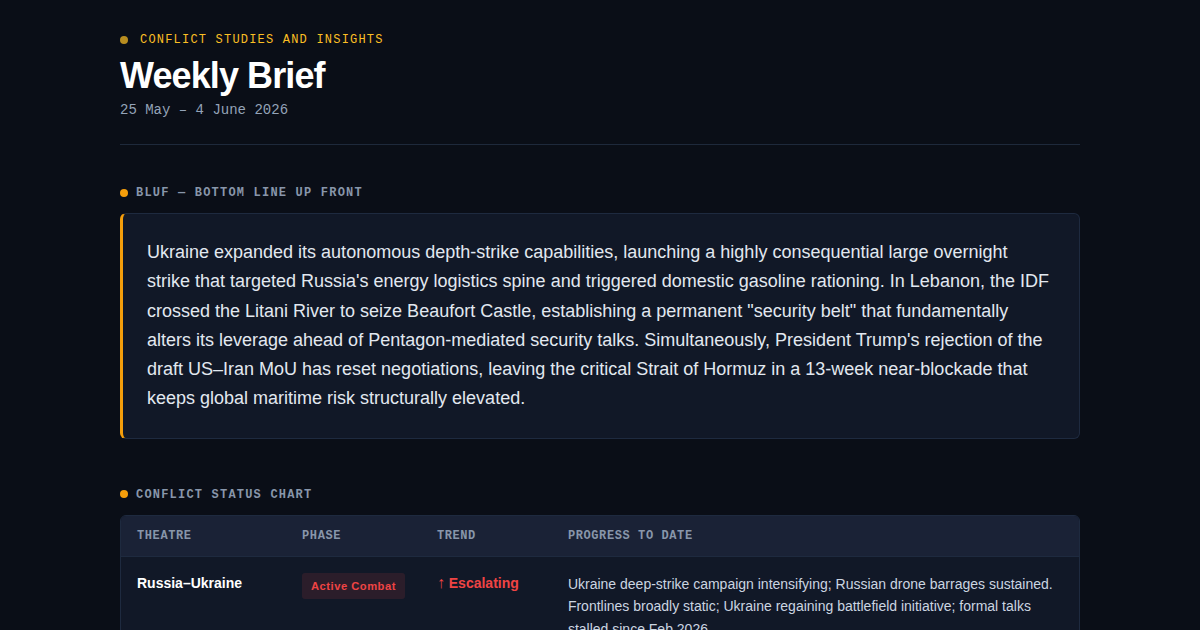
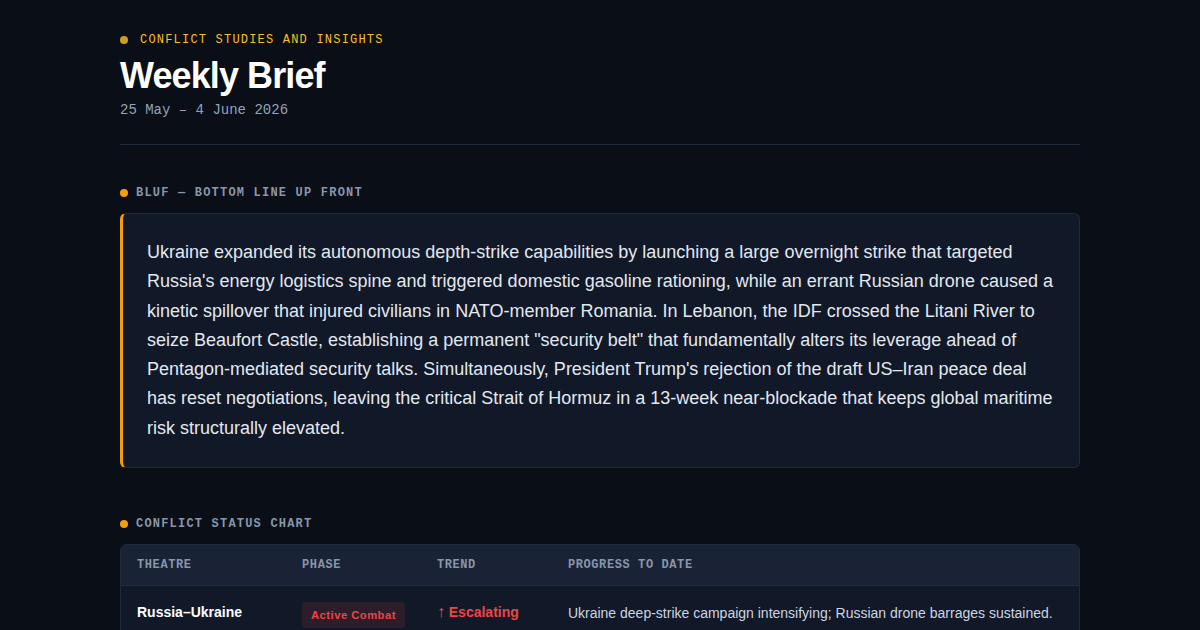
Add files via upload

diff --git a/25-may-4-jun-2026.html b/25-may-4-jun-2026.html
@@ -308,7 +308,7 @@
     <h2 class="font-mono text-xs tracking-widest uppercase mb-3" style="color:#8896aa;"><span class="sec-dot" style="background:#f59e0b"></span>BLUF — Bottom Line Up Front</h2>
         <div class="rounded-md p-5 sm-p-6" style="background:#111827; border:1px solid #1e2a3f; border-left:3px solid #f59e0b;">
       <p class="text-base sm-text-lg leading-relaxed" style="color:#e2e8f0;">
-        Ukraine expanded its autonomous depth-strike capabilities, launching a highly consequential large overnight strike that targeted Russia's energy logistics spine and triggered domestic gasoline rationing. In Lebanon, the IDF crossed the Litani River to seize Beaufort Castle, establishing a permanent "security belt" that fundamentally alters its leverage ahead of Pentagon-mediated security talks. Simultaneously, President Trump's rejection of the draft US–Iran MoU has reset negotiations, leaving the critical Strait of Hormuz in a 13-week near-blockade that keeps global maritime risk structurally elevated.
+        Ukraine expanded its autonomous depth-strike capabilities by launching a large overnight strike that targeted Russia's energy logistics spine and triggered domestic gasoline rationing, while an errant Russian drone caused a kinetic spillover that injured civilians in NATO-member Romania. In Lebanon, the IDF crossed the Litani River to seize Beaufort Castle, establishing a permanent "security belt" that fundamentally alters its leverage ahead of Pentagon-mediated security talks. Simultaneously, President Trump's rejection of the draft US–Iran peace deal has reset negotiations, leaving the critical Strait of Hormuz in a 13-week near-blockade that keeps global maritime risk structurally elevated.
       </p>
     </div>
   </section>
@@ -387,6 +387,21 @@
         <div class="font-mono" style="font-size:11px; letter-spacing:1.5px; text-transform:uppercase; color:#f59e0b; margin-bottom:6px; font-weight:700;">Implication <span style="opacity:0.7;">[Fires &amp; Strikes · Sustainment]</span></div>
         <ul style="color:#e2e8f0; line-height:1.65; padding-left:1.1rem; list-style:disc; margin:0;"><li style="margin-bottom:0.5rem;"><strong>Logistics resilience as a force-multiplier</strong> — Crimea-wide rationing, M-14 restriction, and milblogger-confirmed shortages demonstrate that targeting an adversary's logistics depth can erode combat power faster than attrition of frontline formations. Sustainment architecture (fuel pre-positioning, dispersal of POL stores, diversification of supply routes) should be stress-tested against scenarios where logistics nodes are held at persistent risk by long-range standoff weapons.</li><li style="margin-bottom:0.5rem;"><strong>AI-enabled drone interdiction changes convoy protection</strong> — Ukraine's use of AI-powered Hornet drones against moving food, fuel, and ammunition vehicles shows that logistics convoys are no longer protected simply by distance from the forward line or by Russian jamming. Convoy and formation-protection drills should include AI-assisted loitering munitions that can search a broad area, classify military vehicles, and attack emerging targets without continuous line-of-sight control.</li><li style="margin-bottom:0.5rem;"><strong>Protected installations</strong> — Russia's targeting of training grounds (Tryokhizbenko and Primorsky Posad) — causing 31 casualties in rear-area training — signals that rear-echelon and training installations are now considered legitimate strike targets. Installation protection plans should incorporate long-range UAS threat modelling, including dispersal protocols, hardening of critical infrastructure, and early-warning integration.</li></ul>
       </div>
+    
+      <div class="mt-6">
+        <div class="flex items-center gap-2 mb-15"><span class="pill">Regional Spillover</span></div>
+        <div class="font-semibold mb-15" style="color:#ffffff;">Russian drone spillover crossed a NATO civilian-harm threshold</div>
+        <p class="leading-relaxed text-sm sm-text-base" style="color:#cbd5e1;">On 29 May, <a href="https://www.thenationalnews.com/news/europe/2026/05/29/nato-member-romania-says-russian-drone-hit-block-of-flats/" target="_blank" rel="noopener" style="color:#f59e0b;">a Russian Geran-2-type drone struck the roof of a 10-storey apartment block in Galați, Romania</a>, near the Ukrainian border, igniting a fire, injuring two people, and forcing roughly 70 residents to evacuate. Romanian authorities said the drone entered Romanian airspace during a Russian attack on Ukraine and that its explosive payload detonated on impact. Romania has seen repeated Russian drone incursions since 2022, but this was the first reported case in which Romanian civilians were injured, prompting NATO and EU condemnation and renewed Romanian requests for accelerated anti-drone capabilities. NATO Secretary General Mark Rutte said the alliance was prepared to defend every inch of allied territory, while European leaders framed the strike as a serious violation of NATO airspace. Because the drone appears to have been a spillover or errant strike rather than a confirmed deliberate Russian attack on Romania, NATO leaders were cautious about framing it as an Article 5 trigger, but the civilian injuries create a higher escalation threshold than earlier debris-only incidents.<span class="src-group"><a class="src-pill" href="https://www.thenationalnews.com/news/europe/2026/05/29/nato-member-romania-says-russian-drone-hit-block-of-flats/" target="_blank" rel="noopener"><svg viewBox="0 0 24 24" width="10" height="10" fill="none" stroke="currentColor" stroke-width="2" stroke-linecap="round" stroke-linejoin="round"><path d="M15.172 7l-6.586 6.586a2 2 0 102.828 2.828l6.414-6.586a4 4 0 00-5.656-5.656l-6.415 6.585a6 6 0 108.486 8.486L20.5 13"/></svg><span>thenational</span></a></span></p>
+      </div>
+      <div class="mt-6 pl-4" style="border-left:2px solid rgba(245,158,11,0.55);">
+        <div class="font-mono" style="font-size:11px; letter-spacing:1.5px; text-transform:uppercase; color:#f59e0b; margin-bottom:6px; font-weight:700;">Implication <span style="opacity:0.7;">[Regional Spillover]</span></div>
+        <ul style="color:#e2e8f0; line-height:1.65; padding-left:1.1rem; list-style:disc; margin:0;">
+          <li style="margin-bottom:0.5rem;"><strong>Installation and urban-area protection must account for incidental drones</strong> — not deliberately targeting friendly territory but entering airspace during a neighbouring conflict or regional crisis.</li>
+          <li style="margin-bottom:0.5rem;"><strong>Public communications and evidence handling must be rehearsed</strong>, because civilian casualties, debris attribution, and escalation messaging will shape whether an incident is treated as accident, provocation, or attack.</li>
+          <li><strong>Alliance/coalition thresholds matter operationally</strong> — Article 4-style consultation, defensive reinforcement, and counter-UAS deployment may be the most likely near-term response even when Article 5 is politically discussed.</li>
+        </ul>
+      </div>
+
     </article>
 
     <!-- Theatre 2 -->
@@ -400,7 +415,7 @@
         <div>
           <div class="flex items-center gap-2 mb-15"><span class="pill">Manoeuvre</span><span class="pill">Protection</span></div>
           <div class="font-semibold mb-15" style="color:#ffffff;">IDF seizes Beaufort Castle &amp; crosses Litani — first since 2000</div>
-          <p class="leading-relaxed" style="color:#cbd5e1;">The IDF's seizure of Beaufort Castle and crossing of the Litani River on 31 May represents a strategic inflexion in the Israel–Lebanon conflict that has not been seen since 2000. Israel now occupies approximately 2,000 sq km — nearly one-fifth of Lebanon's national territory — despite a nominal ceasefire in place since 17 April. This is not a tactical adjustment: by taking a commanding ridgeline that provides overwatch from the western coast to the eastern Beqaa valleys, <a href="https://www.aljazeera.com/news/2026/5/31/israeli-forces-push-past-lebanons-litani-river-how-significant-is-it" target="_blank" rel="noopener" style="color:#f59e0b;">the IDF has established what multiple analysts describe as an expanded permanent "security belt" concept well north of the Litani</a>. The move came 24 hours after the first Pentagon-mediated Israel–Lebanon direct military talks (29 May) — which <a href="https://www.al-monitor.com/originals/2026/05/lebanon-pm-denounces-israeli-campaign-fresh-strikes-hit-south" target="_blank" rel="noopener" style="color:#f59e0b;">Colby called "productive" but which made no reference to a ceasefire</a>. The disarmament impasse is structural: LAF will not confront Hezbollah militarily for fear of civil war, and Hezbollah's IRGC connection gives Tehran leverage over the Lebanon track as a bargaining chip in its separate nuclear negotiations with Washington. The 4th round of talks (2–3 June) will be held while Israel holds terrain it did not hold during any of the first three rounds — fundamentally altering Israel's negotiating position and leverage.<span class="src-group"><a class="src-pill" href="https://www.aljazeera.com/news/2026/5/31/israeli-forces-push-past-lebanons-litani-river-how-significant-is-it" target="_blank" rel="noopener"><svg viewBox="0 0 24 24" width="10" height="10" fill="none" stroke="currentColor" stroke-width="2" stroke-linecap="round" stroke-linejoin="round"><path d="M15.172 7l-6.586 6.586a2 2 0 102.828 2.828l6.414-6.586a4 4 0 00-5.656-5.656l-6.415 6.585a6 6 0 108.486 8.486L20.5 13"/></svg><span>aljazeera</span></a><a class="src-pill" href="https://www.al-monitor.com/originals/2026/05/lebanon-pm-denounces-israeli-campaign-fresh-strikes-hit-south" target="_blank" rel="noopener"><svg viewBox="0 0 24 24" width="10" height="10" fill="none" stroke="currentColor" stroke-width="2" stroke-linecap="round" stroke-linejoin="round"><path d="M15.172 7l-6.586 6.586a2 2 0 102.828 2.828l6.414-6.586a4 4 0 00-5.656-5.656l-6.415 6.585a6 6 0 108.486 8.486L20.5 13"/></svg><span>al-monitor</span></a></span></p>
+          <p class="leading-relaxed" style="color:#cbd5e1;">The IDF's seizure of Beaufort Castle and crossing of the Litani River on 31 May represents a strategic inflexion in the Israel–Lebanon conflict that has not been seen since 2000. Israel now occupies approximately 2,000 sq km — nearly one-fifth of Lebanon's national territory — despite a nominal ceasefire in place since 17 April. This is not a tactical adjustment: by taking a commanding ridgeline that provides overwatch from the western coast to the eastern Beqaa valleys, <a href="https://www.aljazeera.com/news/2026/5/31/israeli-forces-push-past-lebanons-litani-river-how-significant-is-it" target="_blank" rel="noopener" style="color:#f59e0b;">the IDF has established what multiple analysts describe as an expanded permanent "security belt" concept well north of the Litani</a>. The move came 24 hours after the first Pentagon-mediated Israel–Lebanon direct military talks (29 May) — which <a href="https://www.al-monitor.com/originals/2026/05/lebanon-pm-denounces-israeli-campaign-fresh-strikes-hit-south" target="_blank" rel="noopener" style="color:#f59e0b;">Colby, the Pentagon's second-in-command, called "productive" but which made no reference to a ceasefire</a>. The disarmament impasse is structural: LAF will not confront Hezbollah militarily for fear of civil war, and Hezbollah's IRGC connection gives Tehran leverage over the Lebanon track as a bargaining chip in its separate nuclear negotiations with Washington. The 4th round of talks (2–3 June) will be held while Israel holds terrain it did not hold during any of the first three rounds — fundamentally altering Israel's negotiating position and leverage.<span class="src-group"><a class="src-pill" href="https://www.aljazeera.com/news/2026/5/31/israeli-forces-push-past-lebanons-litani-river-how-significant-is-it" target="_blank" rel="noopener"><svg viewBox="0 0 24 24" width="10" height="10" fill="none" stroke="currentColor" stroke-width="2" stroke-linecap="round" stroke-linejoin="round"><path d="M15.172 7l-6.586 6.586a2 2 0 102.828 2.828l6.414-6.586a4 4 0 00-5.656-5.656l-6.415 6.585a6 6 0 108.486 8.486L20.5 13"/></svg><span>aljazeera</span></a><a class="src-pill" href="https://www.al-monitor.com/originals/2026/05/lebanon-pm-denounces-israeli-campaign-fresh-strikes-hit-south" target="_blank" rel="noopener"><svg viewBox="0 0 24 24" width="10" height="10" fill="none" stroke="currentColor" stroke-width="2" stroke-linecap="round" stroke-linejoin="round"><path d="M15.172 7l-6.586 6.586a2 2 0 102.828 2.828l6.414-6.586a4 4 0 00-5.656-5.656l-6.415 6.585a6 6 0 108.486 8.486L20.5 13"/></svg><span>al-monitor</span></a></span></p>
         </div>
       </div>
       <div class="mt-6 pl-4" style="border-left:2px solid rgba(245,158,11,0.55);">

diff --git a/index.html b/index.html
@@ -308,7 +308,7 @@
     <h2 class="font-mono text-xs tracking-widest uppercase mb-3" style="color:#8896aa;"><span class="sec-dot" style="background:#f59e0b"></span>BLUF — Bottom Line Up Front</h2>
         <div class="rounded-md p-5 sm-p-6" style="background:#111827; border:1px solid #1e2a3f; border-left:3px solid #f59e0b;">
       <p class="text-base sm-text-lg leading-relaxed" style="color:#e2e8f0;">
-        Ukraine expanded its autonomous depth-strike capabilities, launching a highly consequential large overnight strike that targeted Russia's energy logistics spine and triggered domestic gasoline rationing. In Lebanon, the IDF crossed the Litani River to seize Beaufort Castle, establishing a permanent "security belt" that fundamentally alters its leverage ahead of Pentagon-mediated security talks. Simultaneously, President Trump's rejection of the draft US–Iran MoU has reset negotiations, leaving the critical Strait of Hormuz in a 13-week near-blockade that keeps global maritime risk structurally elevated.
+        Ukraine expanded its autonomous depth-strike capabilities by launching a large overnight strike that targeted Russia's energy logistics spine and triggered domestic gasoline rationing, while an errant Russian drone caused a kinetic spillover that injured civilians in NATO-member Romania. In Lebanon, the IDF crossed the Litani River to seize Beaufort Castle, establishing a permanent "security belt" that fundamentally alters its leverage ahead of Pentagon-mediated security talks. Simultaneously, President Trump's rejection of the draft US–Iran peace deal has reset negotiations, leaving the critical Strait of Hormuz in a 13-week near-blockade that keeps global maritime risk structurally elevated.
       </p>
     </div>
   </section>
@@ -387,6 +387,21 @@
         <div class="font-mono" style="font-size:11px; letter-spacing:1.5px; text-transform:uppercase; color:#f59e0b; margin-bottom:6px; font-weight:700;">Implication <span style="opacity:0.7;">[Fires &amp; Strikes · Sustainment]</span></div>
         <ul style="color:#e2e8f0; line-height:1.65; padding-left:1.1rem; list-style:disc; margin:0;"><li style="margin-bottom:0.5rem;"><strong>Logistics resilience as a force-multiplier</strong> — Crimea-wide rationing, M-14 restriction, and milblogger-confirmed shortages demonstrate that targeting an adversary's logistics depth can erode combat power faster than attrition of frontline formations. Sustainment architecture (fuel pre-positioning, dispersal of POL stores, diversification of supply routes) should be stress-tested against scenarios where logistics nodes are held at persistent risk by long-range standoff weapons.</li><li style="margin-bottom:0.5rem;"><strong>AI-enabled drone interdiction changes convoy protection</strong> — Ukraine's use of AI-powered Hornet drones against moving food, fuel, and ammunition vehicles shows that logistics convoys are no longer protected simply by distance from the forward line or by Russian jamming. Convoy and formation-protection drills should include AI-assisted loitering munitions that can search a broad area, classify military vehicles, and attack emerging targets without continuous line-of-sight control.</li><li style="margin-bottom:0.5rem;"><strong>Protected installations</strong> — Russia's targeting of training grounds (Tryokhizbenko and Primorsky Posad) — causing 31 casualties in rear-area training — signals that rear-echelon and training installations are now considered legitimate strike targets. Installation protection plans should incorporate long-range UAS threat modelling, including dispersal protocols, hardening of critical infrastructure, and early-warning integration.</li></ul>
       </div>
+    
+      <div class="mt-6">
+        <div class="flex items-center gap-2 mb-15"><span class="pill">Regional Spillover</span></div>
+        <div class="font-semibold mb-15" style="color:#ffffff;">Russian drone spillover crossed a NATO civilian-harm threshold</div>
+        <p class="leading-relaxed text-sm sm-text-base" style="color:#cbd5e1;">On 29 May, <a href="https://www.thenationalnews.com/news/europe/2026/05/29/nato-member-romania-says-russian-drone-hit-block-of-flats/" target="_blank" rel="noopener" style="color:#f59e0b;">a Russian Geran-2-type drone struck the roof of a 10-storey apartment block in Galați, Romania</a>, near the Ukrainian border, igniting a fire, injuring two people, and forcing roughly 70 residents to evacuate. Romanian authorities said the drone entered Romanian airspace during a Russian attack on Ukraine and that its explosive payload detonated on impact. Romania has seen repeated Russian drone incursions since 2022, but this was the first reported case in which Romanian civilians were injured, prompting NATO and EU condemnation and renewed Romanian requests for accelerated anti-drone capabilities. NATO Secretary General Mark Rutte said the alliance was prepared to defend every inch of allied territory, while European leaders framed the strike as a serious violation of NATO airspace. Because the drone appears to have been a spillover or errant strike rather than a confirmed deliberate Russian attack on Romania, NATO leaders were cautious about framing it as an Article 5 trigger, but the civilian injuries create a higher escalation threshold than earlier debris-only incidents.<span class="src-group"><a class="src-pill" href="https://www.thenationalnews.com/news/europe/2026/05/29/nato-member-romania-says-russian-drone-hit-block-of-flats/" target="_blank" rel="noopener"><svg viewBox="0 0 24 24" width="10" height="10" fill="none" stroke="currentColor" stroke-width="2" stroke-linecap="round" stroke-linejoin="round"><path d="M15.172 7l-6.586 6.586a2 2 0 102.828 2.828l6.414-6.586a4 4 0 00-5.656-5.656l-6.415 6.585a6 6 0 108.486 8.486L20.5 13"/></svg><span>thenational</span></a></span></p>
+      </div>
+      <div class="mt-6 pl-4" style="border-left:2px solid rgba(245,158,11,0.55);">
+        <div class="font-mono" style="font-size:11px; letter-spacing:1.5px; text-transform:uppercase; color:#f59e0b; margin-bottom:6px; font-weight:700;">Implication <span style="opacity:0.7;">[Regional Spillover]</span></div>
+        <ul style="color:#e2e8f0; line-height:1.65; padding-left:1.1rem; list-style:disc; margin:0;">
+          <li style="margin-bottom:0.5rem;"><strong>Installation and urban-area protection must account for incidental drones</strong> — not deliberately targeting friendly territory but entering airspace during a neighbouring conflict or regional crisis.</li>
+          <li style="margin-bottom:0.5rem;"><strong>Public communications and evidence handling must be rehearsed</strong>, because civilian casualties, debris attribution, and escalation messaging will shape whether an incident is treated as accident, provocation, or attack.</li>
+          <li><strong>Alliance/coalition thresholds matter operationally</strong> — Article 4-style consultation, defensive reinforcement, and counter-UAS deployment may be the most likely near-term response even when Article 5 is politically discussed.</li>
+        </ul>
+      </div>
+
     </article>
 
     <!-- Theatre 2 -->
@@ -400,7 +415,7 @@
         <div>
           <div class="flex items-center gap-2 mb-15"><span class="pill">Manoeuvre</span><span class="pill">Protection</span></div>
           <div class="font-semibold mb-15" style="color:#ffffff;">IDF seizes Beaufort Castle &amp; crosses Litani — first since 2000</div>
-          <p class="leading-relaxed" style="color:#cbd5e1;">The IDF's seizure of Beaufort Castle and crossing of the Litani River on 31 May represents a strategic inflexion in the Israel–Lebanon conflict that has not been seen since 2000. Israel now occupies approximately 2,000 sq km — nearly one-fifth of Lebanon's national territory — despite a nominal ceasefire in place since 17 April. This is not a tactical adjustment: by taking a commanding ridgeline that provides overwatch from the western coast to the eastern Beqaa valleys, <a href="https://www.aljazeera.com/news/2026/5/31/israeli-forces-push-past-lebanons-litani-river-how-significant-is-it" target="_blank" rel="noopener" style="color:#f59e0b;">the IDF has established what multiple analysts describe as an expanded permanent "security belt" concept well north of the Litani</a>. The move came 24 hours after the first Pentagon-mediated Israel–Lebanon direct military talks (29 May) — which <a href="https://www.al-monitor.com/originals/2026/05/lebanon-pm-denounces-israeli-campaign-fresh-strikes-hit-south" target="_blank" rel="noopener" style="color:#f59e0b;">Colby called "productive" but which made no reference to a ceasefire</a>. The disarmament impasse is structural: LAF will not confront Hezbollah militarily for fear of civil war, and Hezbollah's IRGC connection gives Tehran leverage over the Lebanon track as a bargaining chip in its separate nuclear negotiations with Washington. The 4th round of talks (2–3 June) will be held while Israel holds terrain it did not hold during any of the first three rounds — fundamentally altering Israel's negotiating position and leverage.<span class="src-group"><a class="src-pill" href="https://www.aljazeera.com/news/2026/5/31/israeli-forces-push-past-lebanons-litani-river-how-significant-is-it" target="_blank" rel="noopener"><svg viewBox="0 0 24 24" width="10" height="10" fill="none" stroke="currentColor" stroke-width="2" stroke-linecap="round" stroke-linejoin="round"><path d="M15.172 7l-6.586 6.586a2 2 0 102.828 2.828l6.414-6.586a4 4 0 00-5.656-5.656l-6.415 6.585a6 6 0 108.486 8.486L20.5 13"/></svg><span>aljazeera</span></a><a class="src-pill" href="https://www.al-monitor.com/originals/2026/05/lebanon-pm-denounces-israeli-campaign-fresh-strikes-hit-south" target="_blank" rel="noopener"><svg viewBox="0 0 24 24" width="10" height="10" fill="none" stroke="currentColor" stroke-width="2" stroke-linecap="round" stroke-linejoin="round"><path d="M15.172 7l-6.586 6.586a2 2 0 102.828 2.828l6.414-6.586a4 4 0 00-5.656-5.656l-6.415 6.585a6 6 0 108.486 8.486L20.5 13"/></svg><span>al-monitor</span></a></span></p>
+          <p class="leading-relaxed" style="color:#cbd5e1;">The IDF's seizure of Beaufort Castle and crossing of the Litani River on 31 May represents a strategic inflexion in the Israel–Lebanon conflict that has not been seen since 2000. Israel now occupies approximately 2,000 sq km — nearly one-fifth of Lebanon's national territory — despite a nominal ceasefire in place since 17 April. This is not a tactical adjustment: by taking a commanding ridgeline that provides overwatch from the western coast to the eastern Beqaa valleys, <a href="https://www.aljazeera.com/news/2026/5/31/israeli-forces-push-past-lebanons-litani-river-how-significant-is-it" target="_blank" rel="noopener" style="color:#f59e0b;">the IDF has established what multiple analysts describe as an expanded permanent "security belt" concept well north of the Litani</a>. The move came 24 hours after the first Pentagon-mediated Israel–Lebanon direct military talks (29 May) — which <a href="https://www.al-monitor.com/originals/2026/05/lebanon-pm-denounces-israeli-campaign-fresh-strikes-hit-south" target="_blank" rel="noopener" style="color:#f59e0b;">Colby, the Pentagon's second-in-command, called "productive" but which made no reference to a ceasefire</a>. The disarmament impasse is structural: LAF will not confront Hezbollah militarily for fear of civil war, and Hezbollah's IRGC connection gives Tehran leverage over the Lebanon track as a bargaining chip in its separate nuclear negotiations with Washington. The 4th round of talks (2–3 June) will be held while Israel holds terrain it did not hold during any of the first three rounds — fundamentally altering Israel's negotiating position and leverage.<span class="src-group"><a class="src-pill" href="https://www.aljazeera.com/news/2026/5/31/israeli-forces-push-past-lebanons-litani-river-how-significant-is-it" target="_blank" rel="noopener"><svg viewBox="0 0 24 24" width="10" height="10" fill="none" stroke="currentColor" stroke-width="2" stroke-linecap="round" stroke-linejoin="round"><path d="M15.172 7l-6.586 6.586a2 2 0 102.828 2.828l6.414-6.586a4 4 0 00-5.656-5.656l-6.415 6.585a6 6 0 108.486 8.486L20.5 13"/></svg><span>aljazeera</span></a><a class="src-pill" href="https://www.al-monitor.com/originals/2026/05/lebanon-pm-denounces-israeli-campaign-fresh-strikes-hit-south" target="_blank" rel="noopener"><svg viewBox="0 0 24 24" width="10" height="10" fill="none" stroke="currentColor" stroke-width="2" stroke-linecap="round" stroke-linejoin="round"><path d="M15.172 7l-6.586 6.586a2 2 0 102.828 2.828l6.414-6.586a4 4 0 00-5.656-5.656l-6.415 6.585a6 6 0 108.486 8.486L20.5 13"/></svg><span>al-monitor</span></a></span></p>
         </div>
       </div>
       <div class="mt-6 pl-4" style="border-left:2px solid rgba(245,158,11,0.55);">
